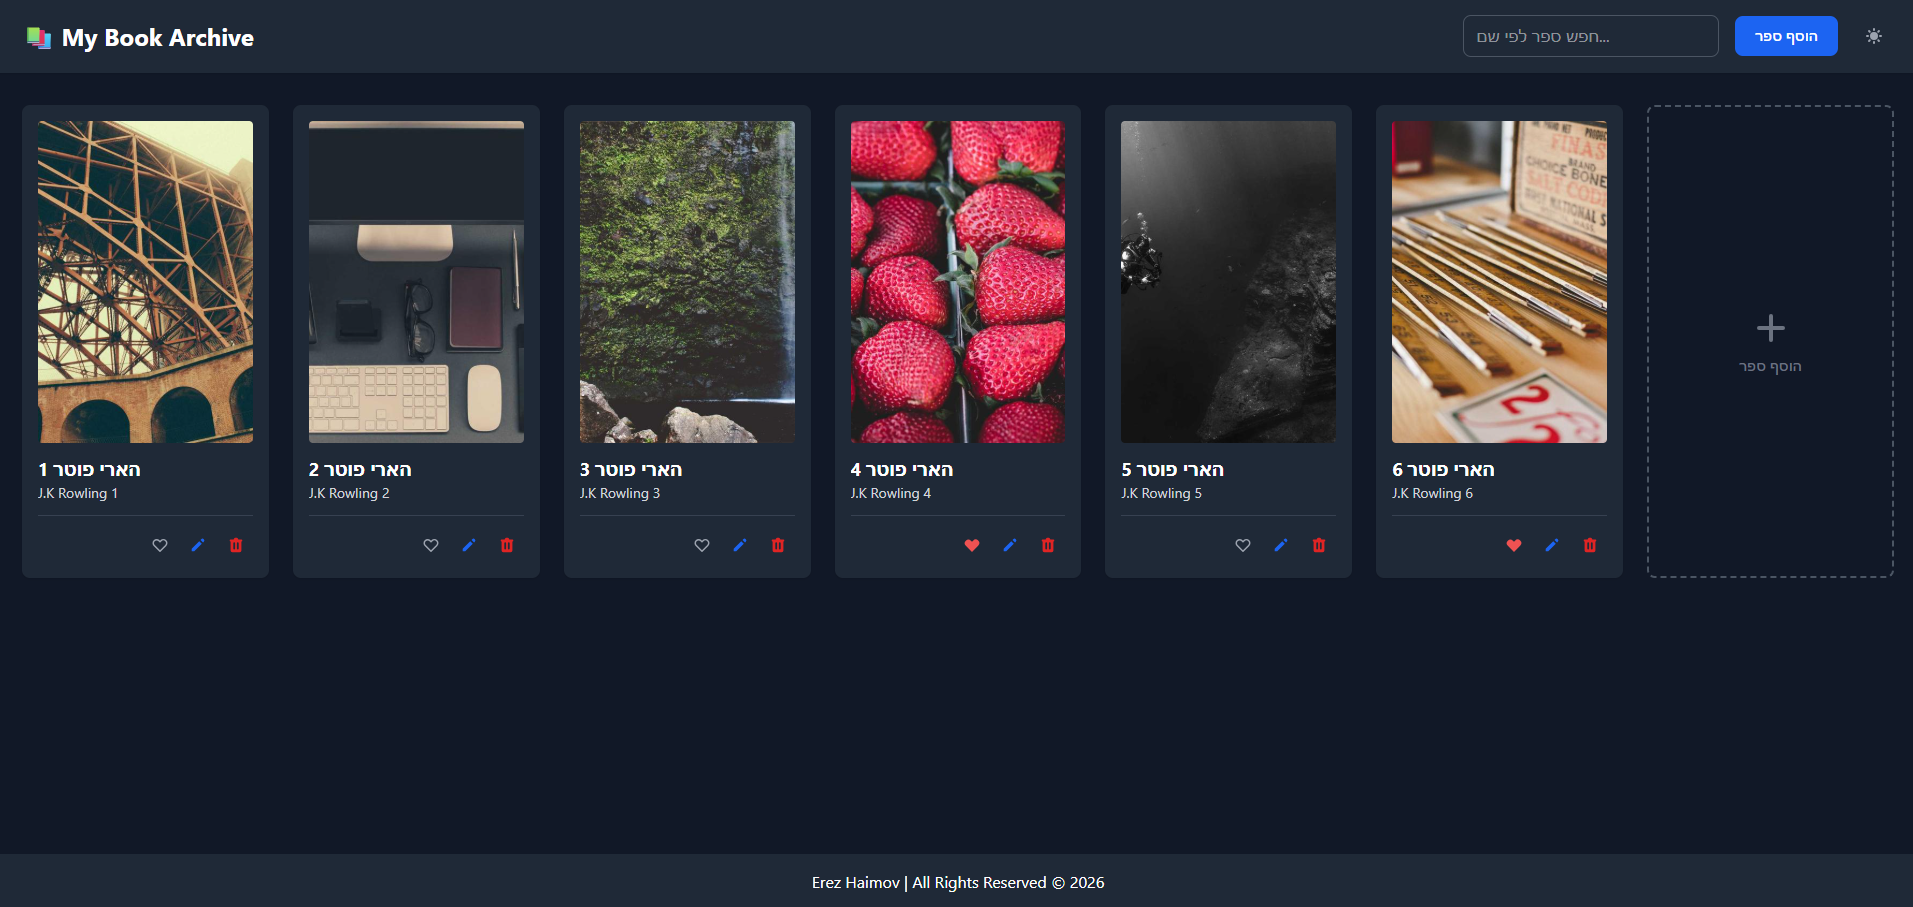
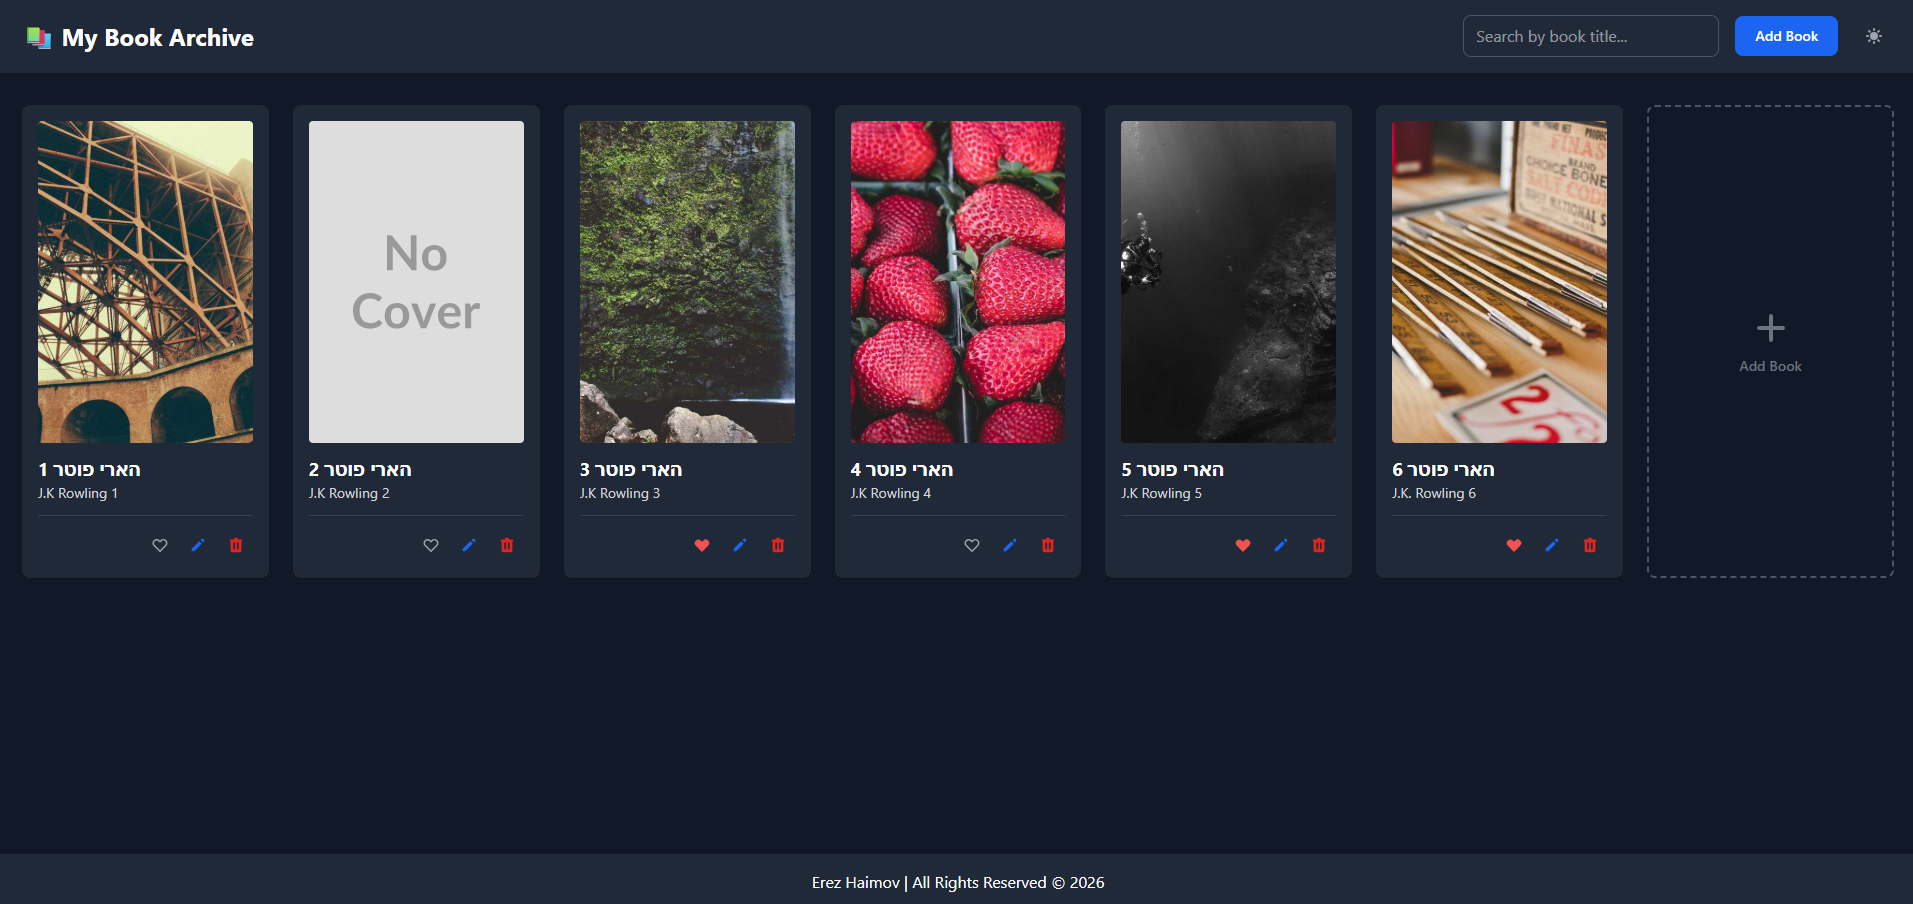
BookCard and Modal fixes, Mobile fixes, README fix and Screenshots

diff --git a/src/components/BookCard.tsx b/src/components/BookCard.tsx
@@ -1,4 +1,11 @@
-import { HiTrash, HiHeart, HiOutlineHeart, HiPencil } from "react-icons/hi";
+import { useState, useRef } from "react";
+import {
+  HiTrash,
+  HiHeart,
+  HiOutlineHeart,
+  HiPencil,
+  HiInformationCircle,
+} from "react-icons/hi";
 import type { BookResponse } from "../models/book-response";
 
 interface BookCardProps {
@@ -14,13 +21,64 @@ export default function BookCard({
   onToggleFavorite,
   onEdit,
 }: BookCardProps) {
+  const [showDescription, setShowDescription] = useState(false);
+
+  const descriptionRef = useRef<HTMLDivElement>(null);
+
+  const handleMouseEnter = () => {
+    if (descriptionRef.current) {
+      descriptionRef.current.scrollTop = 0;
+    }
+  };
+
+  const handleCardClick = () => {
+    if (descriptionRef.current) {
+      descriptionRef.current.scrollTop = 0;
+    }
+    setShowDescription((prev) => !prev);
+  };
+
   return (
     <div className="flex h-full flex-col rounded-lg bg-white p-4 shadow dark:bg-gray-800">
-      <img
-        src={book.coverImage}
-        alt={book.title}
-        className="mb-3 aspect-[2/3] w-full rounded object-cover"
-      />
+      <div
+        onMouseEnter={handleMouseEnter}
+        onClick={handleCardClick}
+        className="group relative mb-3 aspect-[2/3] w-full cursor-pointer overflow-hidden rounded select-none"
+      >
+        <img
+          src={
+            book.coverImage || "https://placehold.co/400x600?text=No%0ACover"
+          }
+          alt={book.title}
+          className="h-full w-full object-cover"
+          onError={(e) => {
+            e.currentTarget.onerror = null;
+            e.currentTarget.src =
+              "https://placehold.co/400x600?text=Cover%0AError";
+          }}
+        />
+
+        {book.description && (
+          <div className="absolute top-2 right-2 rounded-full bg-black/60 p-1 text-white backdrop-blur-sm sm:hidden">
+            <HiInformationCircle size={18} />
+          </div>
+        )}
+
+        {book.description && (
+          <div
+            ref={descriptionRef}
+            className={`absolute inset-x-0 bottom-0 max-h-[50%] overflow-y-auto bg-gradient-to-t from-black/90 via-black/75 to-black/60 p-3 pt-4 text-xs text-white backdrop-blur-sm transition-all duration-300 ease-out ${
+              showDescription
+                ? "translate-y-0 opacity-100"
+                : "translate-y-full opacity-0"
+            } group-hover:translate-y-0 group-hover:opacity-100`}
+          >
+            <p className="leading-relaxed whitespace-pre-line">
+              {book.description}
+            </p>
+          </div>
+        )}
+      </div>
 
       <div className="flex-1">
         <h2 className="truncate text-lg font-bold text-gray-900 dark:text-white">
@@ -34,8 +92,10 @@ export default function BookCard({
       <div className="mt-3 flex items-center justify-end gap-1 border-t border-gray-100 pt-3 dark:border-gray-700">
         <button
           onClick={() => onToggleFavorite(book)}
-          className="rounded-full p-2 hover:bg-red-50 dark:hover:bg-red-900"
-          aria-label={book.isFavorite ? "הסר ממועדפים" : "הוסף למועדפים"}
+          className="rounded-full p-2 hover:bg-red-50 dark:hover:bg-white/10"
+          aria-label={
+            book.isFavorite ? "Remove from favorites" : "Add to favorites"
+          }
         >
           {book.isFavorite ? (
             <HiHeart size={18} className="text-red-500" />
@@ -46,16 +106,16 @@ export default function BookCard({
 
         <button
           onClick={() => onEdit(book)}
-          className="rounded-full p-2 text-blue-600 hover:bg-blue-100 dark:hover:bg-blue-900"
-          aria-label="ערוך ספר"
+          className="rounded-full p-2 text-blue-600 hover:bg-blue-100 dark:hover:bg-white/10"
+          aria-label="Edit book"
         >
           <HiPencil size={18} />
         </button>
 
         <button
           onClick={() => onDelete(book.id)}
-          className="rounded-full p-2 text-red-600 hover:bg-red-100 dark:hover:bg-red-900"
-          aria-label="מחק ספר"
+          className="rounded-full p-2 text-red-600 hover:bg-red-100 dark:hover:bg-white/10"
+          aria-label="Delete book"
         >
           <HiTrash size={18} />
         </button>

diff --git a/src/components/BookFormModal.tsx b/src/components/BookFormModal.tsx
@@ -7,7 +7,11 @@ import {
   Button,
   Label,
   TextInput,
+  Textarea,
+  Checkbox,
+  HelperText,
 } from "flowbite-react";
+import { HiHeart, HiOutlineHeart } from "react-icons/hi";
 import type { BookRequest } from "../models/book-request";
 
 interface BookFormModalProps {
@@ -39,31 +43,38 @@ export default function BookFormModal({
     setForm(initialValues ?? emptyForm);
   }, [initialValues, isOpen]);
 
-  const handleChange = (field: keyof BookRequest, value: string) => {
+  const handleChange = (field: keyof BookRequest, value: string | boolean) => {
     setForm((prev) => ({ ...prev, [field]: value }));
   };
 
+  const isValid = form.title.trim().length > 0;
+
   const handleSubmit = () => {
+    if (!isValid) return;
     onSubmit(form);
     onClose();
   };
 
   return (
-    <Modal show={isOpen} onClose={onClose}>
+    <Modal show={isOpen} onClose={onClose} dismissible>
       <ModalHeader>{title}</ModalHeader>
       <ModalBody>
         <div className="space-y-4">
           <div>
-            <Label htmlFor="title">שם הספר</Label>
+            <Label htmlFor="title">Title *</Label>
             <TextInput
               id="title"
               value={form.title}
               onChange={(e) => handleChange("title", e.target.value)}
+              color={!isValid && form.title !== "" ? "failure" : undefined}
             />
+            {!isValid && form.title !== "" && (
+              <HelperText color="failure">Title is required</HelperText>
+            )}
           </div>
 
           <div>
-            <Label htmlFor="author">מחבר</Label>
+            <Label htmlFor="author">Author</Label>
             <TextInput
               id="author"
               value={form.author}
@@ -72,28 +83,60 @@ export default function BookFormModal({
           </div>
 
           <div>
-            <Label htmlFor="description">תיאור</Label>
-            <TextInput
+            <Label htmlFor="description">Description</Label>
+            <Textarea
               id="description"
+              rows={3}
               value={form.description}
               onChange={(e) => handleChange("description", e.target.value)}
             />
           </div>
 
           <div>
-            <Label htmlFor="coverImage">כתובת תמונה (URL)</Label>
+            <Label htmlFor="coverImage">Cover Image URL</Label>
             <TextInput
               id="coverImage"
               value={form.coverImage}
               onChange={(e) => handleChange("coverImage", e.target.value)}
             />
           </div>
+
+          <div className="flex items-center gap-2 pt-2">
+            <Checkbox
+              id="isFavorite"
+              checked={form.isFavorite}
+              onChange={(e) => handleChange("isFavorite", e.target.checked)}
+            />
+            <Label
+              htmlFor="isFavorite"
+              className="flex cursor-pointer items-center gap-1 select-none"
+            >
+              {form.isFavorite ? (
+                <HiHeart className="inline text-lg text-red-500" />
+              ) : (
+                <HiOutlineHeart className="inline text-lg text-gray-400" />
+              )}
+              Mark as favorite
+            </Label>
+          </div>
         </div>
       </ModalBody>
+
       <ModalFooter>
-        <Button onClick={handleSubmit}>שמור</Button>
-        <Button color="gray" onClick={onClose}>
-          ביטול
+        <Button
+          onClick={handleSubmit}
+          disabled={!isValid}
+          className="dark:hover:bg-blue-500"
+        >
+          Save
+        </Button>
+
+        <Button
+          color="gray"
+          onClick={onClose}
+          className="dark:hover:bg-gray-500"
+        >
+          Cancel
         </Button>
       </ModalFooter>
     </Modal>

diff --git a/src/App.tsx b/src/App.tsx
@@ -24,7 +24,9 @@ function App() {
       setBooks(res.data);
     } catch (err) {
       console.error(err);
-      setError("שגיאה בטעינת הספרים. בדוק את החיבור שלך ונסה שוב.");
+      setError(
+        "Error loading books. Please check your connection and try again.",
+      );
     } finally {
       setIsLoading(false);
     }
@@ -102,19 +104,21 @@ function App() {
         <>
           <input
             type="text"
-            placeholder="חפש ספר לפי שם..."
+            placeholder="Search by book title..."
             value={searchTerm}
             onChange={(e) => setSearchTerm(e.target.value)}
             className="w-64 rounded-lg border px-3 py-2 dark:border-gray-600 dark:bg-gray-800 dark:text-white"
           />
-          <Button onClick={openCreateModal}>הוסף ספר</Button>
+          <Button onClick={openCreateModal} className="dark:hover:bg-blue-500">
+            Add Book
+          </Button>
         </>
       }
     >
       {isLoading && (
         <div className="flex flex-col items-center justify-center py-12">
           <Spinner size="xl" />
-          <p className="mt-4 text-gray-500">טוען ספרים...</p>
+          <p className="mt-4 text-gray-500">Loading books...</p>
         </div>
       )}
 
@@ -122,7 +126,7 @@ function App() {
         <div className="py-8 text-center">
           <p className="mb-3 text-red-600">{error}</p>
           <Button color="red" onClick={fetchBooks}>
-            נסה שוב
+            Try again
           </Button>
         </div>
       )}
@@ -142,14 +146,16 @@ function App() {
             <button
               onClick={openCreateModal}
               className="flex h-full min-h-[280px] w-full flex-col items-center justify-center gap-2 rounded-lg border-2 border-dashed border-gray-300 p-4 text-gray-400 transition-colors hover:border-blue-400 hover:text-blue-500 dark:border-gray-600 dark:text-gray-500 dark:hover:border-blue-500 dark:hover:text-blue-400"
-              aria-label="הוסף ספר חדש"
+              aria-label="Add new book"
             >
               <HiPlus size={40} />
-              <span className="text-sm font-medium">הוסף ספר</span>
+              <span className="text-sm font-medium">Add Book</span>
             </button>
           </div>
           {filteredBooks.length === 0 && (
-            <p className="mt-4 text-gray-500">לא נמצאו ספרים התואמים לחיפוש</p>
+            <p className="mt-4 text-gray-500">
+              No books found matching your search.
+            </p>
           )}
         </>
       )}
@@ -159,7 +165,7 @@ function App() {
         onClose={() => setIsModalOpen(false)}
         onSubmit={editingBook ? handleUpdate : handleCreate}
         initialValues={editingBook ?? undefined}
-        title={editingBook ? "עריכת ספר" : "הוספת ספר חדש"}
+        title={editingBook ? "Editing book" : "Adding new book"}
       />
     </Layout>
   );

diff --git a/README.md b/README.md
@@ -60,10 +60,11 @@ The app will be available at `http://localhost:5173`.
 - Add, edit, and delete books from a personal catalog
 - Mark/unmark books as favorites with a live-updating heart icon
 - Real-time search/filter by book title
-- Responsive card-based grid layout (1–4 columns depending on screen size)
+- Responsive card-based grid layout depending on screen size
 - Initial catalog data fetched from an external REST API (MockAPI)
 - Modal-based forms for creating and editing books
 - Loading and error states for all API operations
+- Dark/Light mode with persistence across sessions
 
 ## My process
 
@@ -82,7 +83,6 @@ The app will be available at `http://localhost:5173`.
 
 I plan to extend this project with the following improvements:
 
-- Dark/Light mode toggle with persistence
 - Sorting the catalog (by title, author, or favorite status)
 - Pagination or infinite scroll for larger catalogs
 - Unit tests for core logic functions (API service, filtering)
